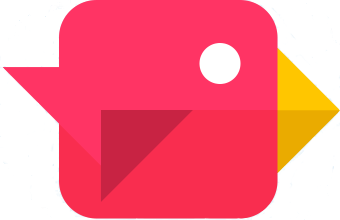
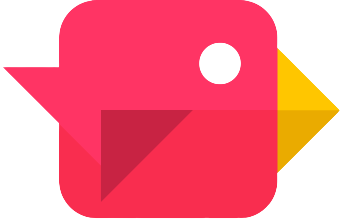
realigned bird model and removed background

diff --git a/script.js b/script.js
@@ -159,7 +159,7 @@ function newGame() {
   newBarrier.className = "barrier";
 
   document.getElementById("character").style.backgroundImage =
-    "url('images/birdRight.png')";
+    "url('images/bird-right.png')";
 
   y = 200;
   x = 150;
@@ -182,6 +182,8 @@ function newGame() {
   document.getElementById("score").innerHTML = "0" + 0;
   document.getElementById("games-played").innerHTML = "games played: "+gamesPlayed
   document.getElementById("seeds-collected").innerHTML = "seeds: "+seedCount
+  generateRightSeed()              
+
 
   clearInterval(interval);
 }
@@ -230,11 +232,10 @@ function jump() {
         document.getElementById("score").innerHTML = score;
       }
       document.getElementById("character").style.backgroundImage =
-        "url('images/birdLeft.png')";
+        "url('images/bird-left.png')";
       console.log("x is" + x + " and y is " + y);
 
       generateLeftObstacles();
-      generateLeftSeed();
     }
     if (x < -10) {
       vx = -vx;
@@ -248,7 +249,7 @@ function jump() {
       }
 
       document.getElementById("character").style.backgroundImage =
-        "url('images/birdRight.png')";
+        "url('images/bird-right.png')";
       console.log("x is" + x + " and y is " + y);
 
       generateRightObstacles();
@@ -286,7 +287,7 @@ function jump() {
     if (y < -20 || y > 360) {
       newGame();
     }
-    //check if character div reached left side of the screen
+    //left side collision detection
     if (x < 0) {
       //check  where exactly did it reach it on y axis
       if (y > 360) {

diff --git a/styles.css b/styles.css
@@ -50,10 +50,12 @@ display: block;
   position: absolute;
   bottom: 200px;
   left: 130px;
-  background-image: url("images/birdRight.png");
+  background-image: url("images/bird-right.png");
   background-size: contain;
   background-repeat: no-repeat;
   z-index: 2;
+  border: 1px solid red
+
 }
 
 #score {
@@ -161,7 +163,7 @@ h1{
   position: absolute;
   left: 20px;
   bottom: 100px;
-  border-radius: 20px;
+  border: 1px solid red
 }
 #games-played{
   position: absolute;
